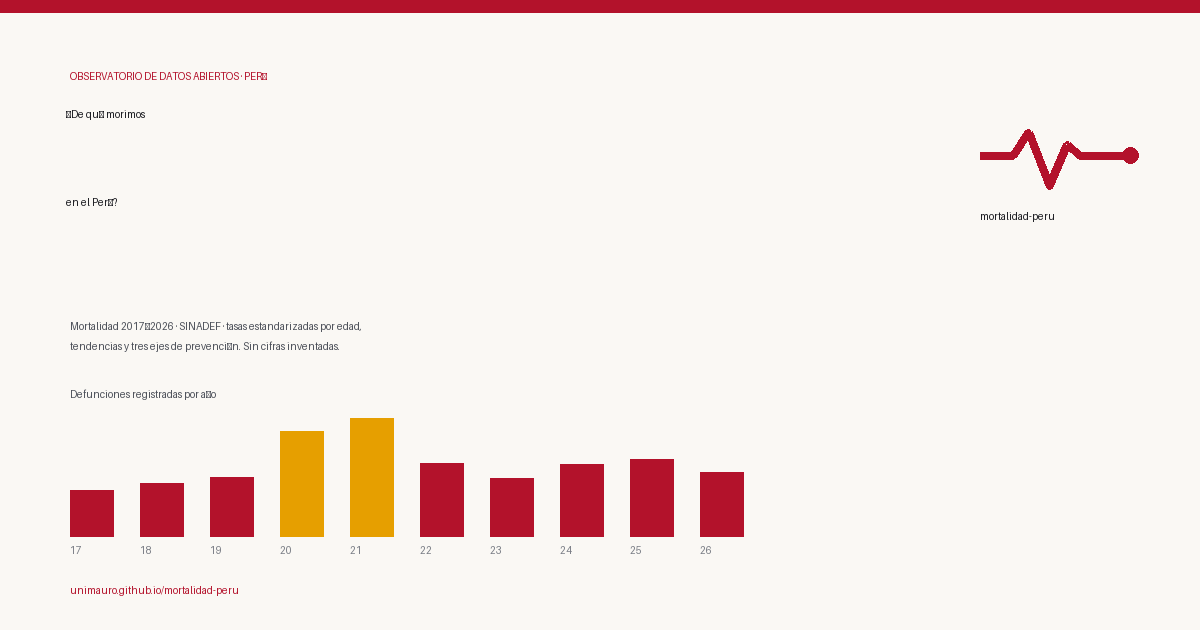
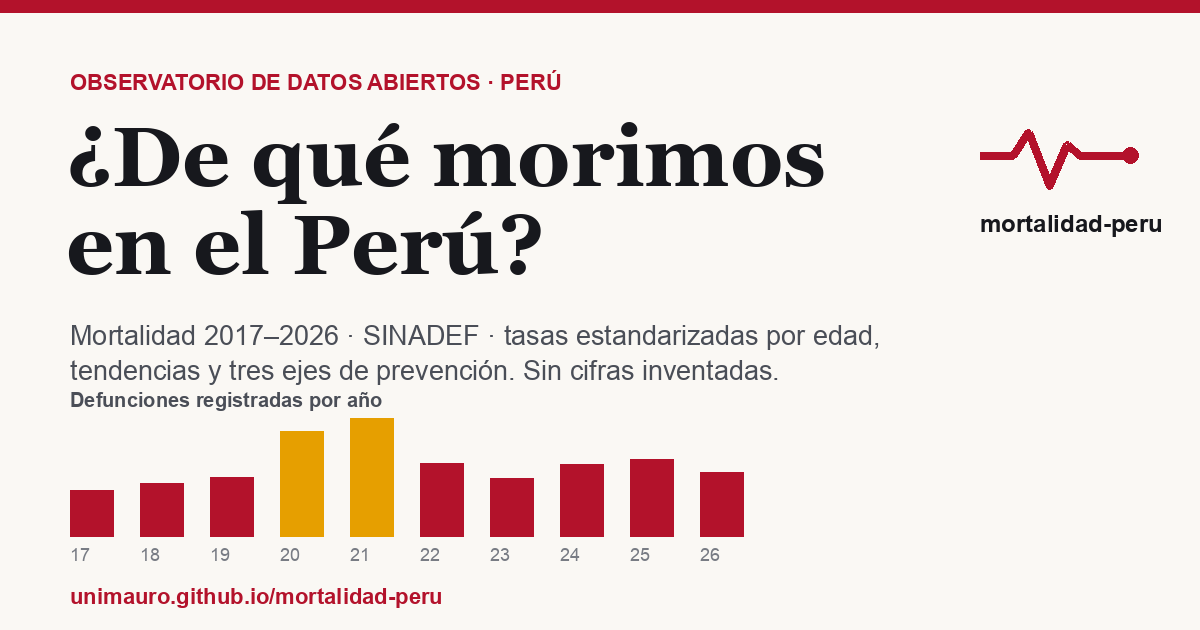
fix: imagen OG de la portada (salía sin tipografía desde CI) + OG propia de la verificación de suicidios; fuentes de respaldo en Linux

diff --git a/pipeline/generar_og_suicidios.py b/pipeline/generar_og_suicidios.py
@@ -1,0 +1,211 @@
+#!/usr/bin/env python3
+"""Genera la imagen Open Graph (1200x630) de la página suicidios-homicidios.html.
+
+Todas las cifras se leen de data/processed/contraste_violentas.json; si falta
+algún dato el script termina con error en vez de dibujar un número a mano.
+
+Requiere Pillow. Uso: python pipeline/generar_og_suicidios.py
+"""
+import json
+import os
+import sys
+
+from PIL import Image, ImageDraw, ImageFont
+
+ROOT = os.path.dirname(os.path.dirname(os.path.abspath(__file__)))
+DATOS = os.path.join(ROOT, "data", "processed", "contraste_violentas.json")
+SALIDA = os.path.join(ROOT, "assets", "og-suicidios.png")
+
+W, H = 1200, 630
+MARGEN = 70
+
+# Paleta del sitio (assets/styles.css)
+PAPER = (250, 248, 244)
+INK = (23, 24, 29)
+INK_SOFT = (74, 78, 87)
+LINE = (231, 226, 216)
+BRAND = (179, 18, 43)
+NARANJA = (213, 94, 0)   # --c4: valor del mapa viral
+AZUL = (0, 114, 178)     # --c1: estimación vigente de la OMS
+
+# Tipografías: el sitio usa Fraunces (títulos) e Inter (texto). Si no están
+# instaladas se usan equivalentes del sistema (macOS y luego Linux/ubuntu).
+_HOME = os.path.expanduser("~")
+_MAC = "/System/Library/Fonts/Supplemental/"
+_LIB = "/usr/share/fonts/truetype/liberation/"
+_DJV = "/usr/share/fonts/truetype/dejavu/"
+FUENTES = {
+    "serif_b": [
+        os.path.join(ROOT, "assets", "fonts", "Fraunces-SemiBold.ttf"),
+        _HOME + "/Library/Fonts/Fraunces-SemiBold.ttf",
+        "/usr/share/fonts/truetype/fraunces/Fraunces-SemiBold.ttf",
+        _MAC + "Georgia Bold.ttf",
+        _LIB + "LiberationSerif-Bold.ttf",
+        _DJV + "DejaVuSerif-Bold.ttf",
+        "DejaVuSerif-Bold.ttf",
+    ],
+    "sans": [
+        os.path.join(ROOT, "assets", "fonts", "Inter-Regular.ttf"),
+        _HOME + "/Library/Fonts/Inter-Regular.ttf",
+        "/usr/share/fonts/truetype/inter/Inter-Regular.ttf",
+        _MAC + "Arial.ttf",
+        _LIB + "LiberationSans-Regular.ttf",
+        _DJV + "DejaVuSans.ttf",
+        "DejaVuSans.ttf",
+    ],
+    "sans_b": [
+        os.path.join(ROOT, "assets", "fonts", "Inter-SemiBold.ttf"),
+        _HOME + "/Library/Fonts/Inter-SemiBold.ttf",
+        "/usr/share/fonts/truetype/inter/Inter-SemiBold.ttf",
+        _MAC + "Arial Bold.ttf",
+        _LIB + "LiberationSans-Bold.ttf",
+        _DJV + "DejaVuSans-Bold.ttf",
+        "DejaVuSans-Bold.ttf",
+    ],
+}
+_usadas = {}
+
+
+def font(rol, size):
+    for p in FUENTES[rol]:
+        try:
+            f = ImageFont.truetype(p, size)
+            _usadas[rol] = p
+            return f
+        except Exception:
+            continue
+    _usadas[rol] = "Pillow (fuente por defecto)"
+    try:
+        return ImageFont.load_default(size)  # Pillow >= 10.1: escalable
+    except TypeError:
+        return ImageFont.load_default()
+
+
+def ancho(d, txt, f):
+    return d.textlength(txt, font=f)
+
+
+def envolver(d, txt, f, max_w):
+    lineas, actual = [], ""
+    for palabra in txt.split():
+        prueba = (actual + " " + palabra).strip()
+        if actual and ancho(d, prueba, f) > max_w:
+            lineas.append(actual)
+            actual = palabra
+        else:
+            actual = prueba
+    if actual:
+        lineas.append(actual)
+    return lineas
+
+
+def espaciado(d, xy, txt, f, fill, tracking=1.5):
+    """Texto con interletraje (para los rótulos en mayúsculas)."""
+    x, y = xy
+    for ch in txt:
+        d.text((x, y), ch, font=f, fill=fill)
+        x += ancho(d, ch, f) + tracking
+    return x
+
+
+def num(v):
+    return f"{v:.1f}"
+
+
+def leer_datos():
+    with open(DATOS, encoding="utf-8") as fh:
+        D = json.load(fh)
+    anio = D["meta"]["anio_mapa"]
+    fila = next((p for p in D["peru"] if p.get("anio") == anio), None)
+    if fila is None:
+        sys.exit(f"No hay fila del Perú para el año del mapa ({anio}) en {DATOS}")
+    s = fila["suicidio"]
+    oms = s["oms"]
+    faltan = [k for k, v in (("oms_edicion_anterior", s.get("oms_edicion_anterior")),
+                             ("oms.v", oms.get("v")), ("oms.lo", oms.get("lo")),
+                             ("oms.hi", oms.get("hi"))) if v is None]
+    if faltan:
+        sys.exit(f"Faltan datos de suicidio {anio}: {', '.join(faltan)}")
+    return {"anio": anio, "mapa": float(s["oms_edicion_anterior"]),
+            "oms": float(oms["v"]), "lo": float(oms["lo"]), "hi": float(oms["hi"])}
+
+
+def bloque(d, x, y, rotulo, valor, color, escala, nota=None, intervalo=None):
+    """Rótulo + cifra grande + barra proporcional (misma escala en ambos)."""
+    espaciado(d, (x, y), rotulo.upper(), font("sans_b", 24), color, 2)
+    f_num = font("serif_b", 150)
+    d.text((x - 6, y + 34), num(valor), font=f_num, fill=color)
+    by = y + 214
+    if intervalo:
+        lo, hi = intervalo
+        # intervalo de incertidumbre: banda tenue detrás de la barra
+        tenue = tuple(int(c + (p - c) * 0.72) for c, p in zip(color, PAPER))
+        d.rectangle([x + lo * escala, by, x + hi * escala, by + 16], fill=tenue)
+    d.rectangle([x, by, x + valor * escala, by + 16], fill=color)
+    if nota:
+        d.text((x, by + 30), nota, font=font("sans", 23), fill=INK_SOFT)
+
+
+def main():
+    v = leer_datos()
+    img = Image.new("RGB", (W, H), PAPER)
+    d = ImageDraw.Draw(img)
+
+    # banda superior de marca (igual que assets/og.png)
+    d.rectangle([0, 0, W, 12], fill=BRAND)
+
+    # antetítulo
+    espaciado(d, (MARGEN, 50),
+              "Verificación de datos · Observatorio de Mortalidad del Perú".upper(),
+              font("sans_b", 21), BRAND, 1.5)
+
+    # titular
+    f_tit = font("serif_b", 56)
+    y = 88
+    for linea in envolver(d, "¿La tasa de suicidio más baja de América Latina?",
+                          f_tit, W - 2 * MARGEN - 160):
+        d.text((MARGEN - 2, y), linea, font=f_tit, fill=INK)
+        y += 66
+
+    # contraste central
+    d.line([MARGEN, y + 18, W - MARGEN, y + 18], fill=LINE, width=2)
+    yb = y + 42
+    x1, x2 = MARGEN, 520
+    escala = (W - MARGEN - x2) / max(v["hi"], v["oms"], v["mapa"])
+    bloque(d, x1, yb, "Mapa viral", v["mapa"], NARANJA, escala,
+           nota="edición anterior de la OMS")
+    bloque(d, x2, yb, "OMS vigente", v["oms"], AZUL, escala,
+           nota=f"intervalo {num(v['lo'])}–{num(v['hi'])}",
+           intervalo=(v["lo"], v["hi"]))
+    # unidad, alineada a la derecha de la cifra de la OMS
+    f_u = font("sans", 25)
+    unidad = ["por 100 mil habitantes,", str(v["anio"])]
+    for i, t in enumerate(unidad):
+        d.text((W - MARGEN - ancho(d, t, f_u), yb + 112 + i * 34), t, font=f_u, fill=INK_SOFT)
+
+    # pie
+    d.line([MARGEN, H - 70, W - MARGEN, H - 70], fill=LINE, width=2)
+    d.text((MARGEN, H - 52), "Fuentes: OMS, Banco Mundial, SINADEF, CEIC-INEI",
+           font=font("sans", 21), fill=INK_SOFT)
+    url = "unimauro.github.io/mortalidad-peru"
+    f_url = font("sans_b", 21)
+    d.text((W - MARGEN - ancho(d, url, f_url), H - 52), url, font=f_url, fill=BRAND)
+
+    # La fuente interna de Pillow no tiene tildes ni «¿»: mejor no sobrescribir
+    # el PNG versionado que publicar uno con caracteres rotos.
+    if any(p.startswith("Pillow") for p in _usadas.values()):
+        sys.exit("No se encontró ninguna tipografía TrueType (ni DejaVu); no se "
+                 "regenera og-suicidios.png. En ubuntu: apt-get install fonts-dejavu-core")
+
+    # PNG con paleta adaptativa: mantiene el suavizado y pesa mucho menos
+    img.quantize(colors=128, method=Image.Quantize.MEDIANCUT, dither=Image.Dither.NONE) \
+       .save(SALIDA, "PNG", optimize=True)
+    kb = os.path.getsize(SALIDA) / 1024
+    print(f"og-suicidios.png OK · {kb:.0f} KB · año {v['anio']}: mapa {num(v['mapa'])} "
+          f"vs OMS {num(v['oms'])} ({num(v['lo'])}–{num(v['hi'])})")
+    for rol, p in sorted(_usadas.items()):
+        print(f"  fuente {rol}: {p}")
+
+
+if __name__ == "__main__":
+    main()

diff --git a/pipeline/generar_imagenes.py b/pipeline/generar_imagenes.py
@@ -20,13 +20,25 @@ ARIAL = "/System/Library/Fonts/Supplemental/Arial.ttf"
 ARIAL_B = "/System/Library/Fonts/Supplemental/Arial Bold.ttf"
 
 
+# Equivalentes en Linux (GitHub Actions): sin esto el OG salía con la fuente
+# bitmap de Pillow, minúscula y sin tildes.
+_LIB = "/usr/share/fonts/truetype/liberation/"
+_DJV = "/usr/share/fonts/truetype/dejavu/"
+_LINUX = {
+    GEORGIA: [_LIB + "LiberationSerif-Regular.ttf", _DJV + "DejaVuSerif.ttf", "DejaVuSerif.ttf"],
+    GEORGIA_B: [_LIB + "LiberationSerif-Bold.ttf", _DJV + "DejaVuSerif-Bold.ttf", "DejaVuSerif-Bold.ttf"],
+    ARIAL: [_LIB + "LiberationSans-Regular.ttf", _DJV + "DejaVuSans.ttf", "DejaVuSans.ttf"],
+    ARIAL_B: [_LIB + "LiberationSans-Bold.ttf", _DJV + "DejaVuSans-Bold.ttf", "DejaVuSans-Bold.ttf"],
+}
+
+
 def font(path, size, fb=ARIAL):
-    for p in (path, fb):
+    for p in [path, *_LINUX.get(path, []), fb, *_LINUX.get(fb, [])]:
         try:
             return ImageFont.truetype(p, size)
         except Exception:
             continue
-    return ImageFont.load_default()
+    raise SystemExit("Sin tipografías TrueType: no se regeneran las imágenes (se conservan las anteriores).")
 
 
 def heartbeat(d, x, y, w, h, color, width=6):
